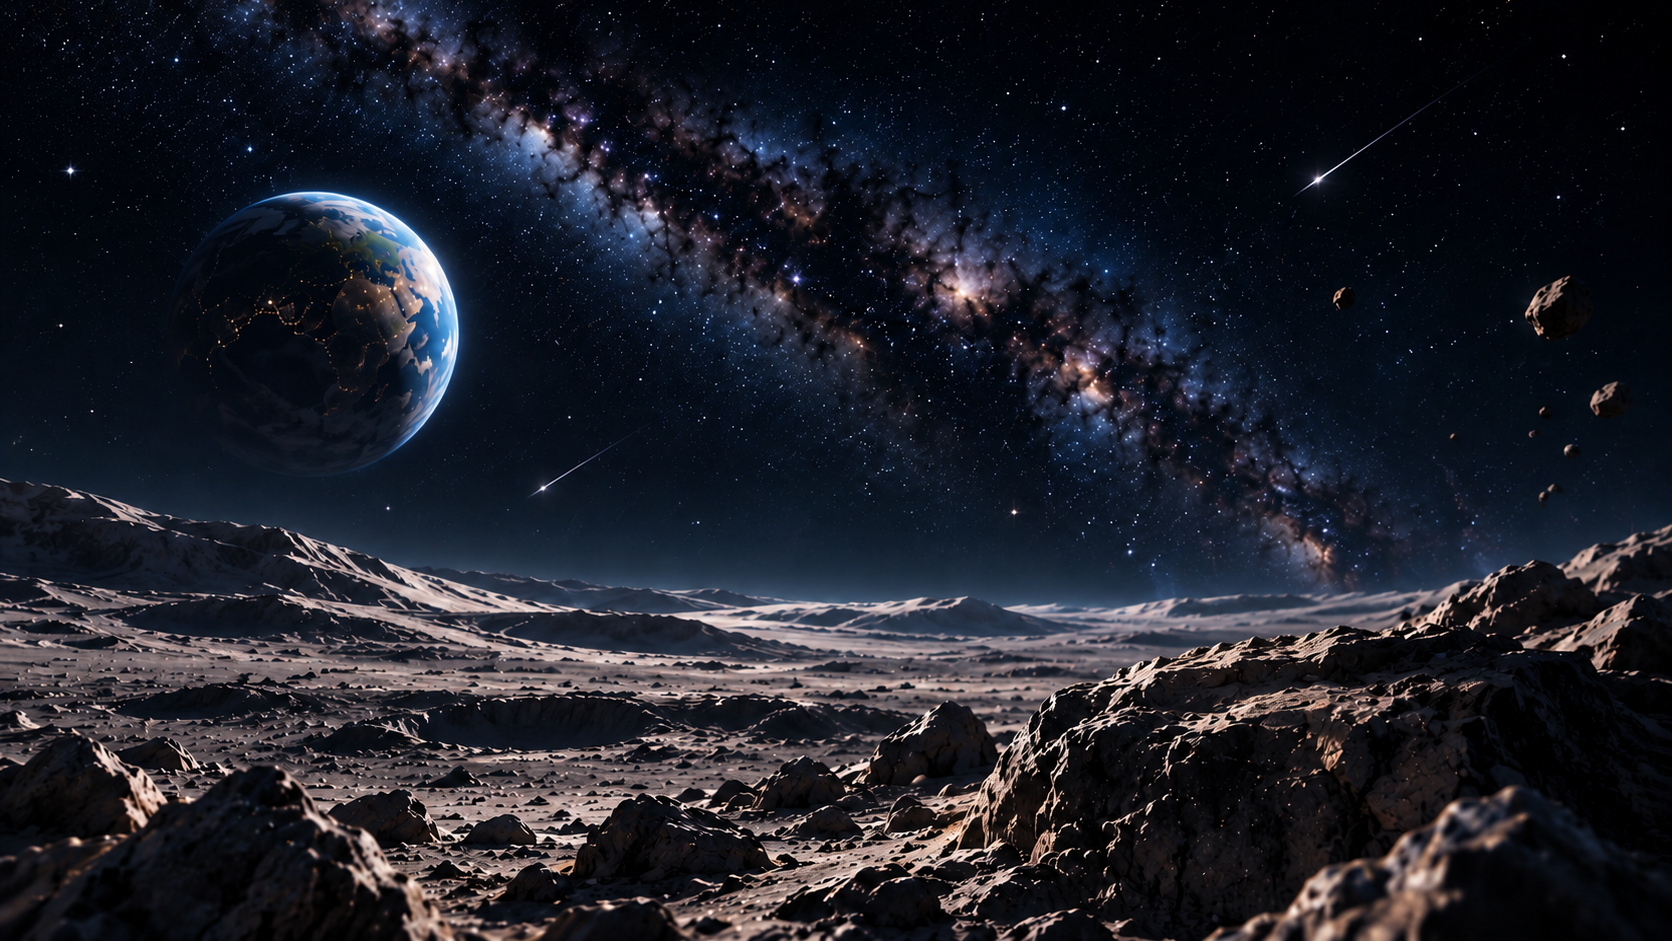
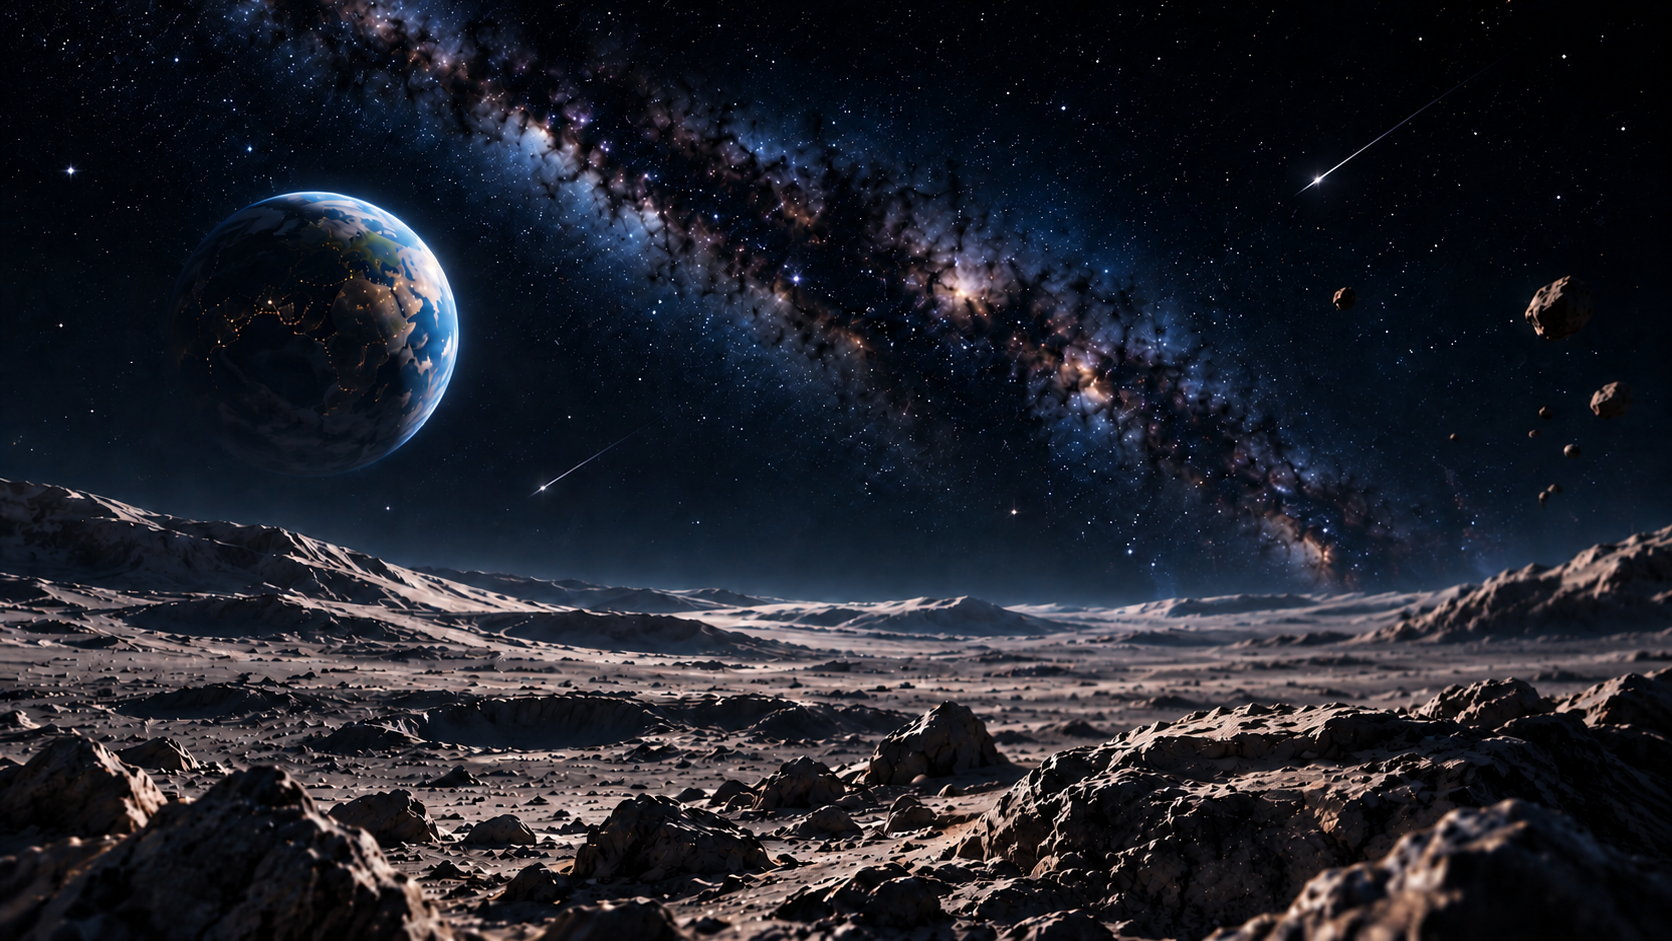
refine floating moon and reduce foreground scale

diff --git a/src/pages/home.css b/src/pages/home.css
@@ -61,3 +61,10 @@
 @media(max-width:700px){.post-hero-rabbit{width:35%;right:-1%;bottom:33%}}
 @media(max-width:370px){.post-nav nav{gap:16px}.post-nav nav>button,.post-nav nav>a{flex:0 0 auto;white-space:nowrap;font-size:11px}}
 @media(min-width:1101px){.post-hero-aside{right:1%}}
+/* Hold the globe in the sky, independently of the foreground and hero height. */
+@media(min-width:701px){
+  .post-hero-visual .lunar-scene{width:min(78%,570px);left:8%;top:-3%}
+  .post-hero-rabbit{width:clamp(145px,13.5vw,210px);right:7%;bottom:14%}
+}
+@media(max-width:1250px) and (min-width:701px){.post-hero-aside{display:none}}
+@media(max-width:700px){.post-hero-visual .lunar-scene{width:clamp(245px,70%,300px);left:4%;top:-2%}}

diff --git a/public/images/moon/SOURCES.md b/public/images/moon/SOURCES.md
@@ -12,4 +12,4 @@ Downloaded 2026-09-23. Original files stored locally without alteration. Artisti
 - `seated-rabbit.png`: user-provided transparent seated astronaut rabbit, copied unchanged from the second reference image supplied in this task. This artwork is not NASA imagery.
 
 - `seated-rabbit-hero.png`：用户提供的透明小白兔素材（2026-09-23 20:29），首页岩石上的坐姿角色。
-- `lunar-landscape-hero.png`：由用户提供的银河与月面背景图（2026-09-23 20:46）局部移除原图中的小白兔后保存，供网页独立叠加透明角色和交互月球。保留原图的地球、银河、流星、月面与岩石构图。
+- `lunar-landscape-hero.png`：由用户提供的银河与月面背景图局部移除原图中的小白兔，并按反馈缩小右侧前景岩石后保存，供网页独立叠加透明角色和交互月球。保留原图的地球、银河、流星与月面构图。
